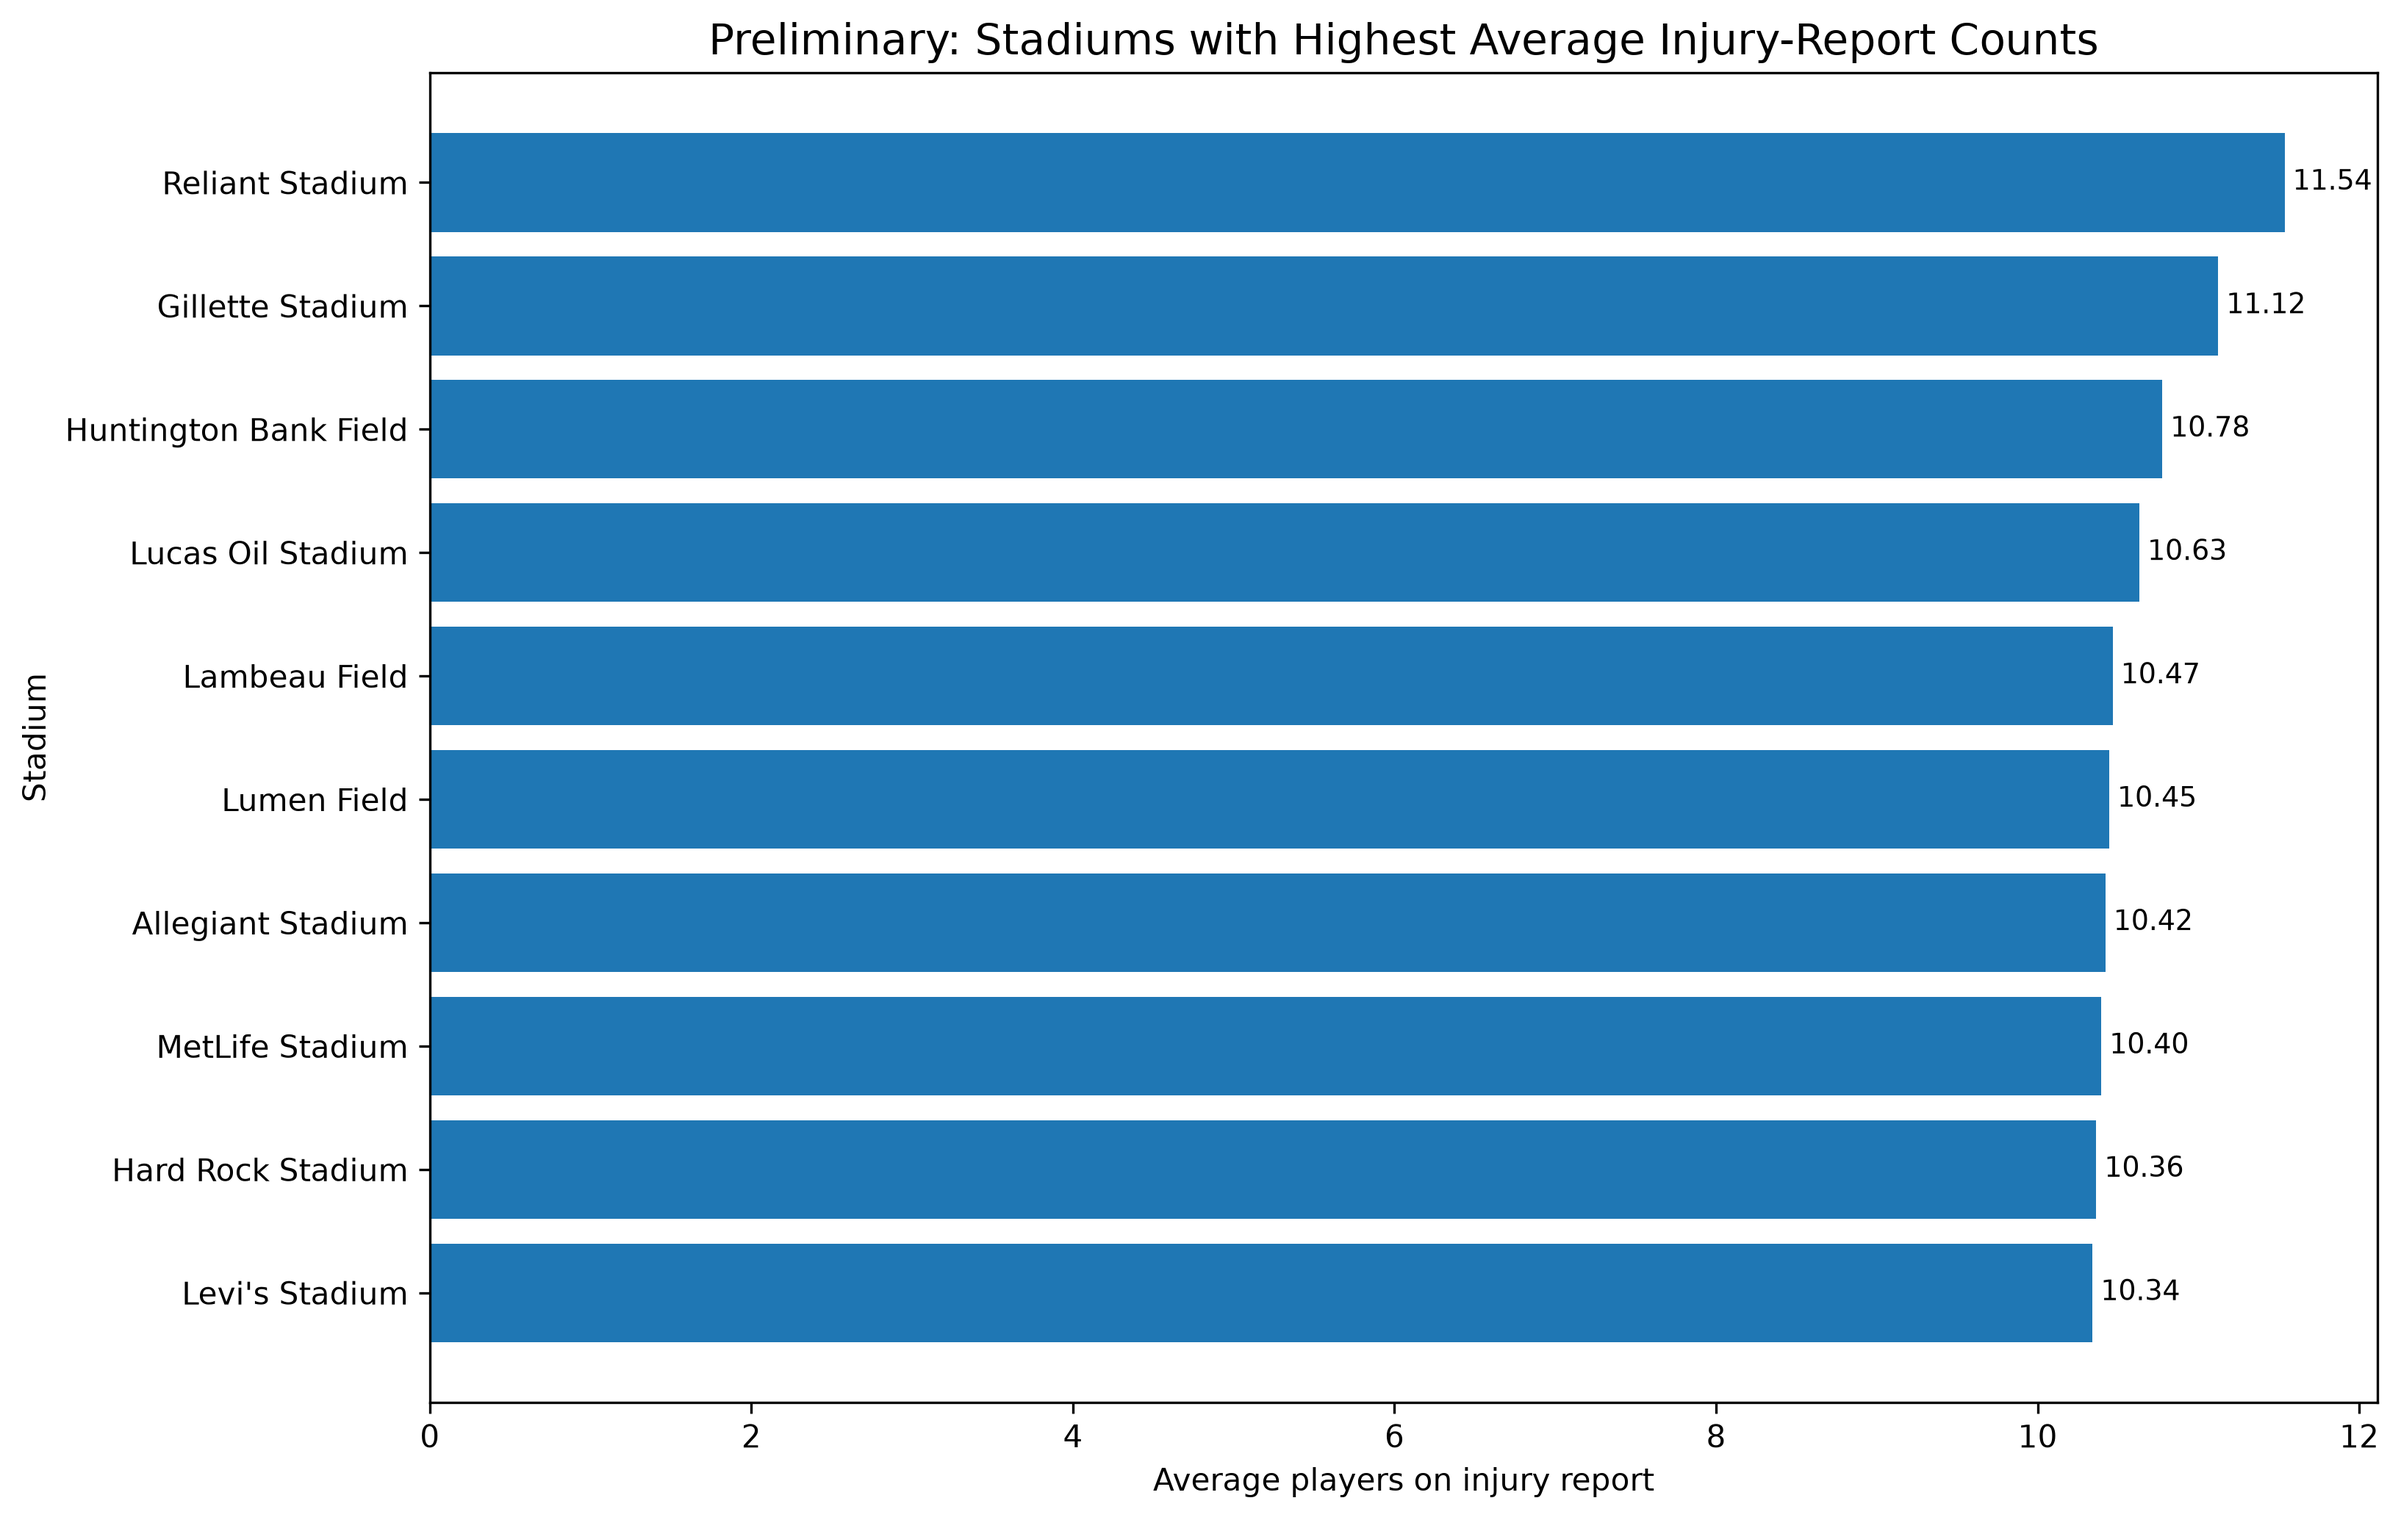
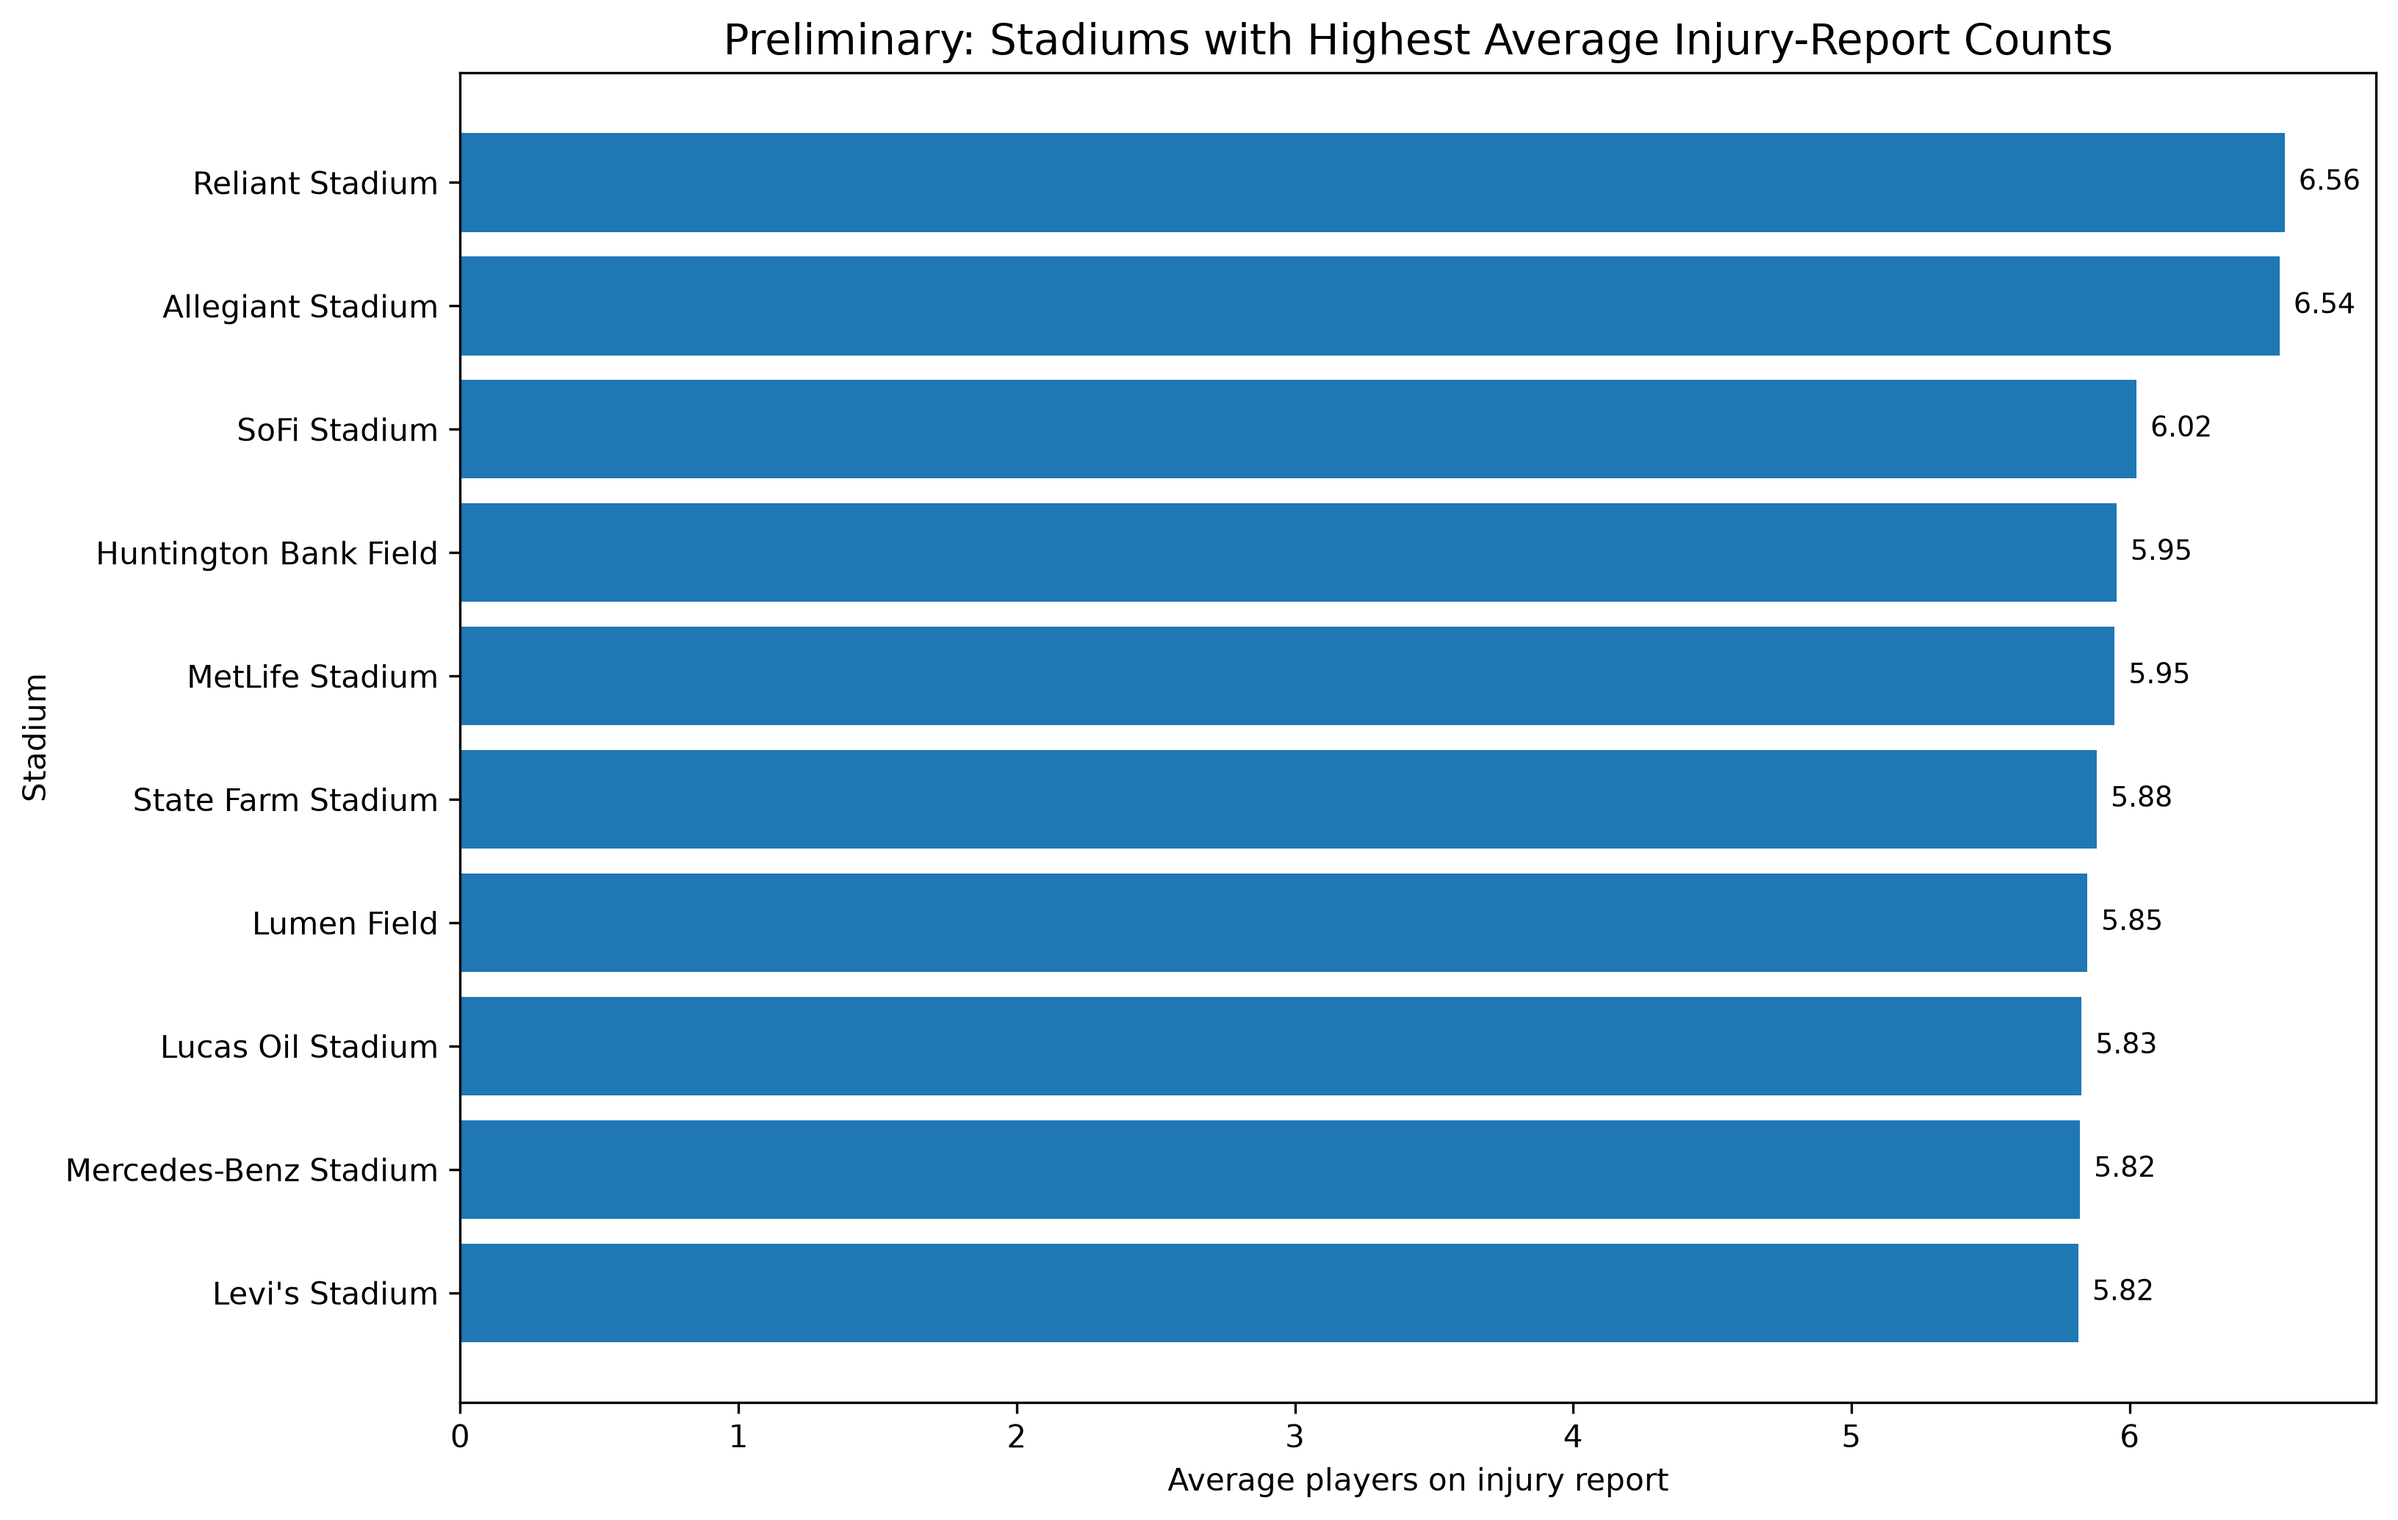
Update analysis using cleaned injury spells

diff --git a/Data/injury_travel_analysis.py b/Data/injury_travel_analysis.py
@@ -11,7 +11,15 @@ from math import radians, sin, cos, sqrt, atan2
 # 1. Load data
 # -----------------------------
 
-injuries = pd.read_csv("Data/injuries.csv", low_memory=False)
+injuries = pd.read_csv(
+    "Data/injuries_preprocessed.csv",
+    low_memory=False
+)
+
+# Keep only the first observation of each injury spell
+injuries = injuries[
+    injuries["is_new_spell"] == True
+].copy()
 schedules = pd.read_csv("Data/schedules.csv", low_memory=False)
 stadiums = pd.read_csv("Data/stadiums.csv", low_memory=False)
 
@@ -67,9 +75,9 @@ schedules["week"] = schedules["week"].astype(int)
 
 injury_counts = (
     injuries
-    .groupby(["season", "week", "team"])["gsis_id"]
-    .nunique()
-    .reset_index(name="injured_players")
+    .groupby(["season", "week", "team"])
+    .size()
+    .reset_index(name="new_injuries")
 )
 
 print("\n=== INJURY COUNTS ===")
@@ -170,8 +178,8 @@ analysis = team_games.merge(
     how="left"
 )
 
-analysis["injured_players"] = (
-    analysis["injured_players"]
+analysis["new_injuries"] = (
+    analysis["new_injuries"]
     .fillna(0)
     .astype(int)
 )
@@ -280,8 +288,8 @@ travel_summary = (
     .groupby("travel_bin", observed=True)
     .agg(
         team_games=("game_id", "count"),
-        avg_injured_players=("injured_players", "mean"),
-        median_injured_players=("injured_players", "median")
+        avg_new_injuries=("new_injuries", "mean"),
+        median_new_injuries=("new_injuries", "median")
     )
     .reset_index()
 )
@@ -297,7 +305,7 @@ away_analysis = analysis[
 ].copy()
 
 travel_corr = away_analysis[
-    ["travel_distance_miles", "injured_players"]
+    ["travel_distance_miles", "new_injuries"]
 ].corr().iloc[0, 1]
 
 print("\nCorrelation between travel distance and injured players:")
@@ -325,8 +333,8 @@ stadium_summary = (
     )
     .agg(
         team_games=("game_id", "count"),
-        total_injured_players=("injured_players", "sum"),
-        avg_injured_players=("injured_players", "mean")
+        total_new_injuries=("new_injuries", "sum"),
+        avg_new_injuries=("new_injuries", "mean")
     )
     .reset_index()
 )
@@ -338,7 +346,7 @@ stadium_summary_filtered = (
         stadium_summary["team_games"] >= 20
     ]
     .sort_values(
-        "avg_injured_players",
+        "avg_new_injuries",
         ascending=False
     )
 )
@@ -352,7 +360,7 @@ print(
             "city",
             "state",
             "team_games",
-            "avg_injured_players"
+            "avg_new_injuries"
         ]
     ].head(15)
 )
@@ -368,11 +376,11 @@ state_summary = (
     .groupby("state")
     .agg(
         team_games=("game_id", "count"),
-        avg_injured_players=("injured_players", "mean")
+        avg_new_injuries=("new_injuries", "mean")
     )
     .reset_index()
     .sort_values(
-        "avg_injured_players",
+        "avg_new_injuries",
         ascending=False
     )
 )
@@ -391,11 +399,11 @@ surface_summary = (
     .groupby("surface_type")
     .agg(
         team_games=("game_id", "count"),
-        avg_injured_players=("injured_players", "mean")
+        avg_new_injuries=("new_injuries", "mean")
     )
     .reset_index()
     .sort_values(
-        "avg_injured_players",
+        "avg_new_injuries",
         ascending=False
     )
 )
@@ -410,11 +418,11 @@ roof_summary = (
     .groupby("roof_type")
     .agg(
         team_games=("game_id", "count"),
-        avg_injured_players=("injured_players", "mean")
+        avg_new_injuries=("new_injuries", "mean")
     )
     .reset_index()
     .sort_values(
-        "avg_injured_players",
+        "avg_new_injuries",
         ascending=False
     )
 )

diff --git a/Data/visualize_results.py b/Data/visualize_results.py
@@ -26,7 +26,7 @@ plt.figure(figsize=(10, 6))
 
 bars = plt.bar(
     travel["travel_bin"],
-    travel["avg_injured_players"]
+    travel["avg_new_injuries"]
 )
 
 plt.title(
@@ -37,9 +37,9 @@ plt.title(
 plt.xlabel("Travel distance")
 plt.ylabel("Average players on injury report")
 
-plt.ylim(0, max(travel["avg_injured_players"]) * 1.15)
+plt.ylim(0, max(travel["avg_new_injuries"]) * 1.15)
 
-for bar, value in zip(bars, travel["avg_injured_players"]):
+for bar, value in zip(bars, travel["avg_new_injuries"]):
     plt.text(
         bar.get_x() + bar.get_width() / 2,
         bar.get_height() + 0.12,
@@ -67,7 +67,7 @@ away = analysis[
 ].copy()
 
 x = away["travel_distance_miles"].to_numpy()
-y = away["injured_players"].to_numpy()
+y = away["new_injuries"].to_numpy()
 
 correlation = np.corrcoef(x, y)[0, 1]
 
@@ -124,16 +124,16 @@ plt.close()
 
 top10 = (
     stadiums
-    .sort_values("avg_injured_players", ascending=False)
+    .sort_values("avg_new_injuries", ascending=False)
     .head(10)
-    .sort_values("avg_injured_players")
+    .sort_values("avg_new_injuries")
 )
 
 plt.figure(figsize=(11, 7))
 
 bars = plt.barh(
     top10["stadium_name"],
-    top10["avg_injured_players"]
+    top10["avg_new_injuries"]
 )
 
 plt.title(
@@ -144,7 +144,7 @@ plt.title(
 plt.xlabel("Average players on injury report")
 plt.ylabel("Stadium")
 
-for bar, value in zip(bars, top10["avg_injured_players"]):
+for bar, value in zip(bars, top10["avg_new_injuries"]):
     plt.text(
         bar.get_width() + 0.05,
         bar.get_y() + bar.get_height() / 2,
@@ -177,7 +177,7 @@ plt.figure(figsize=(7, 6))
 
 bars = plt.bar(
     surface_clean["surface_type"],
-    surface_clean["avg_injured_players"]
+    surface_clean["avg_new_injuries"]
 )
 
 plt.title(
@@ -190,12 +190,12 @@ plt.ylabel("Average players on injury report")
 
 plt.ylim(
     0,
-    max(surface_clean["avg_injured_players"]) * 1.15
+    max(surface_clean["avg_new_injuries"]) * 1.15
 )
 
 for bar, value in zip(
     bars,
-    surface_clean["avg_injured_players"]
+    surface_clean["avg_new_injuries"]
 ):
     plt.text(
         bar.get_x() + bar.get_width() / 2,
